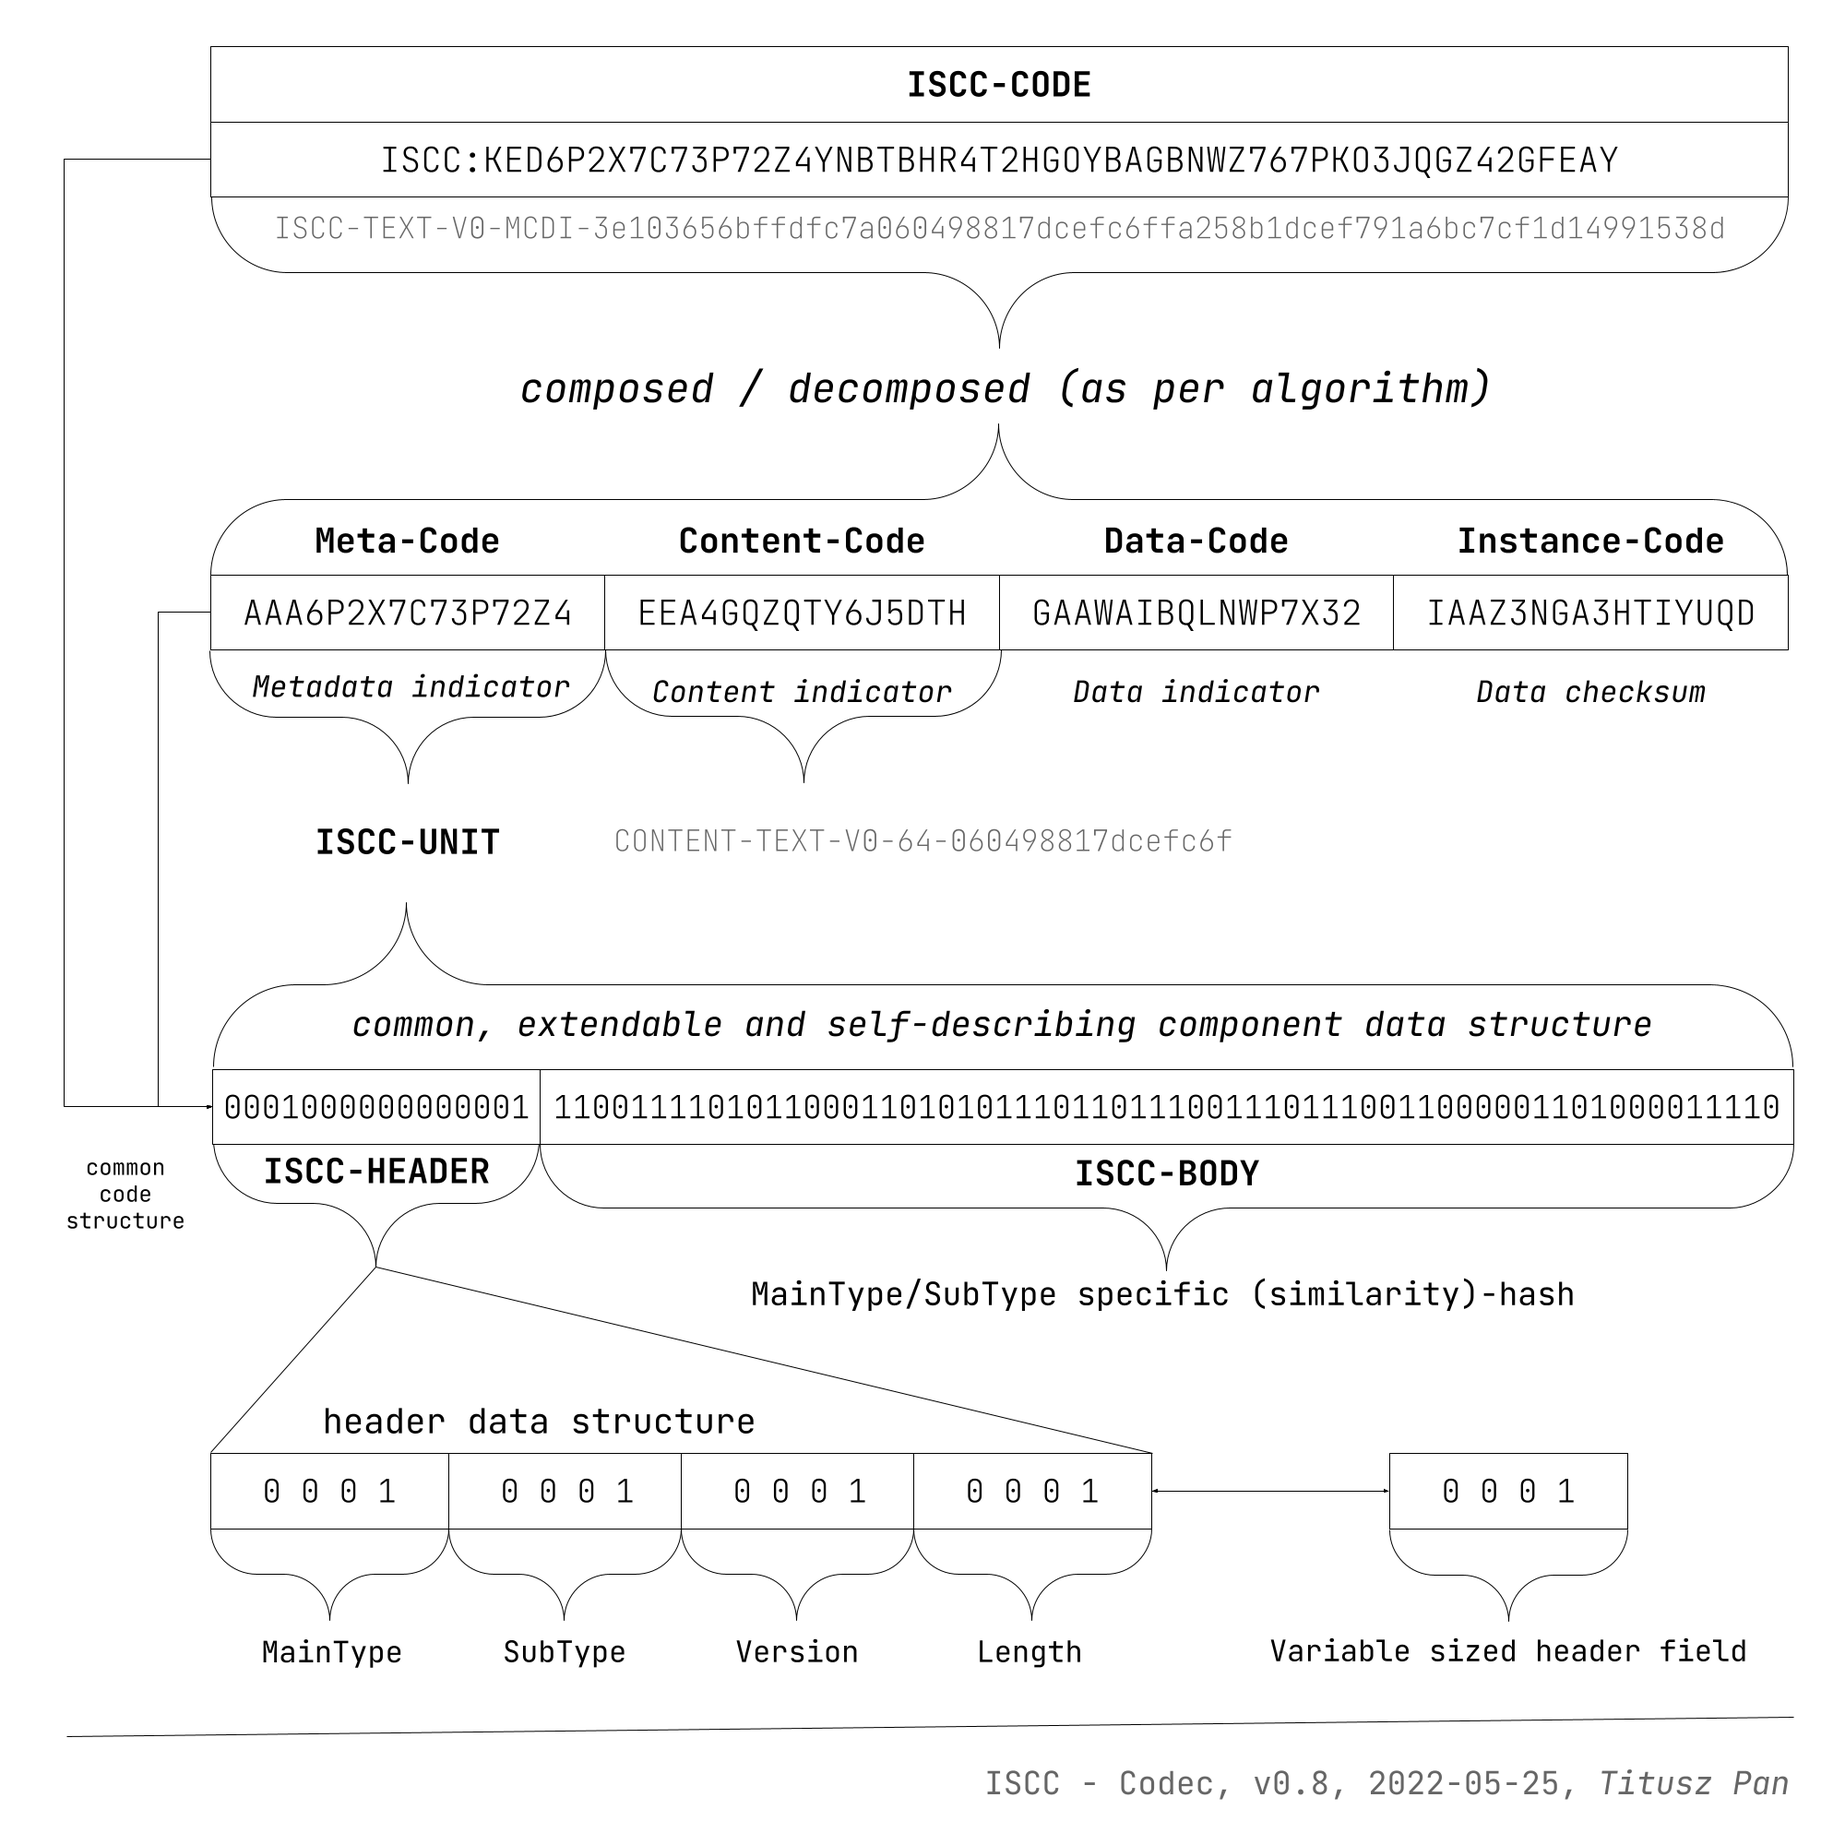
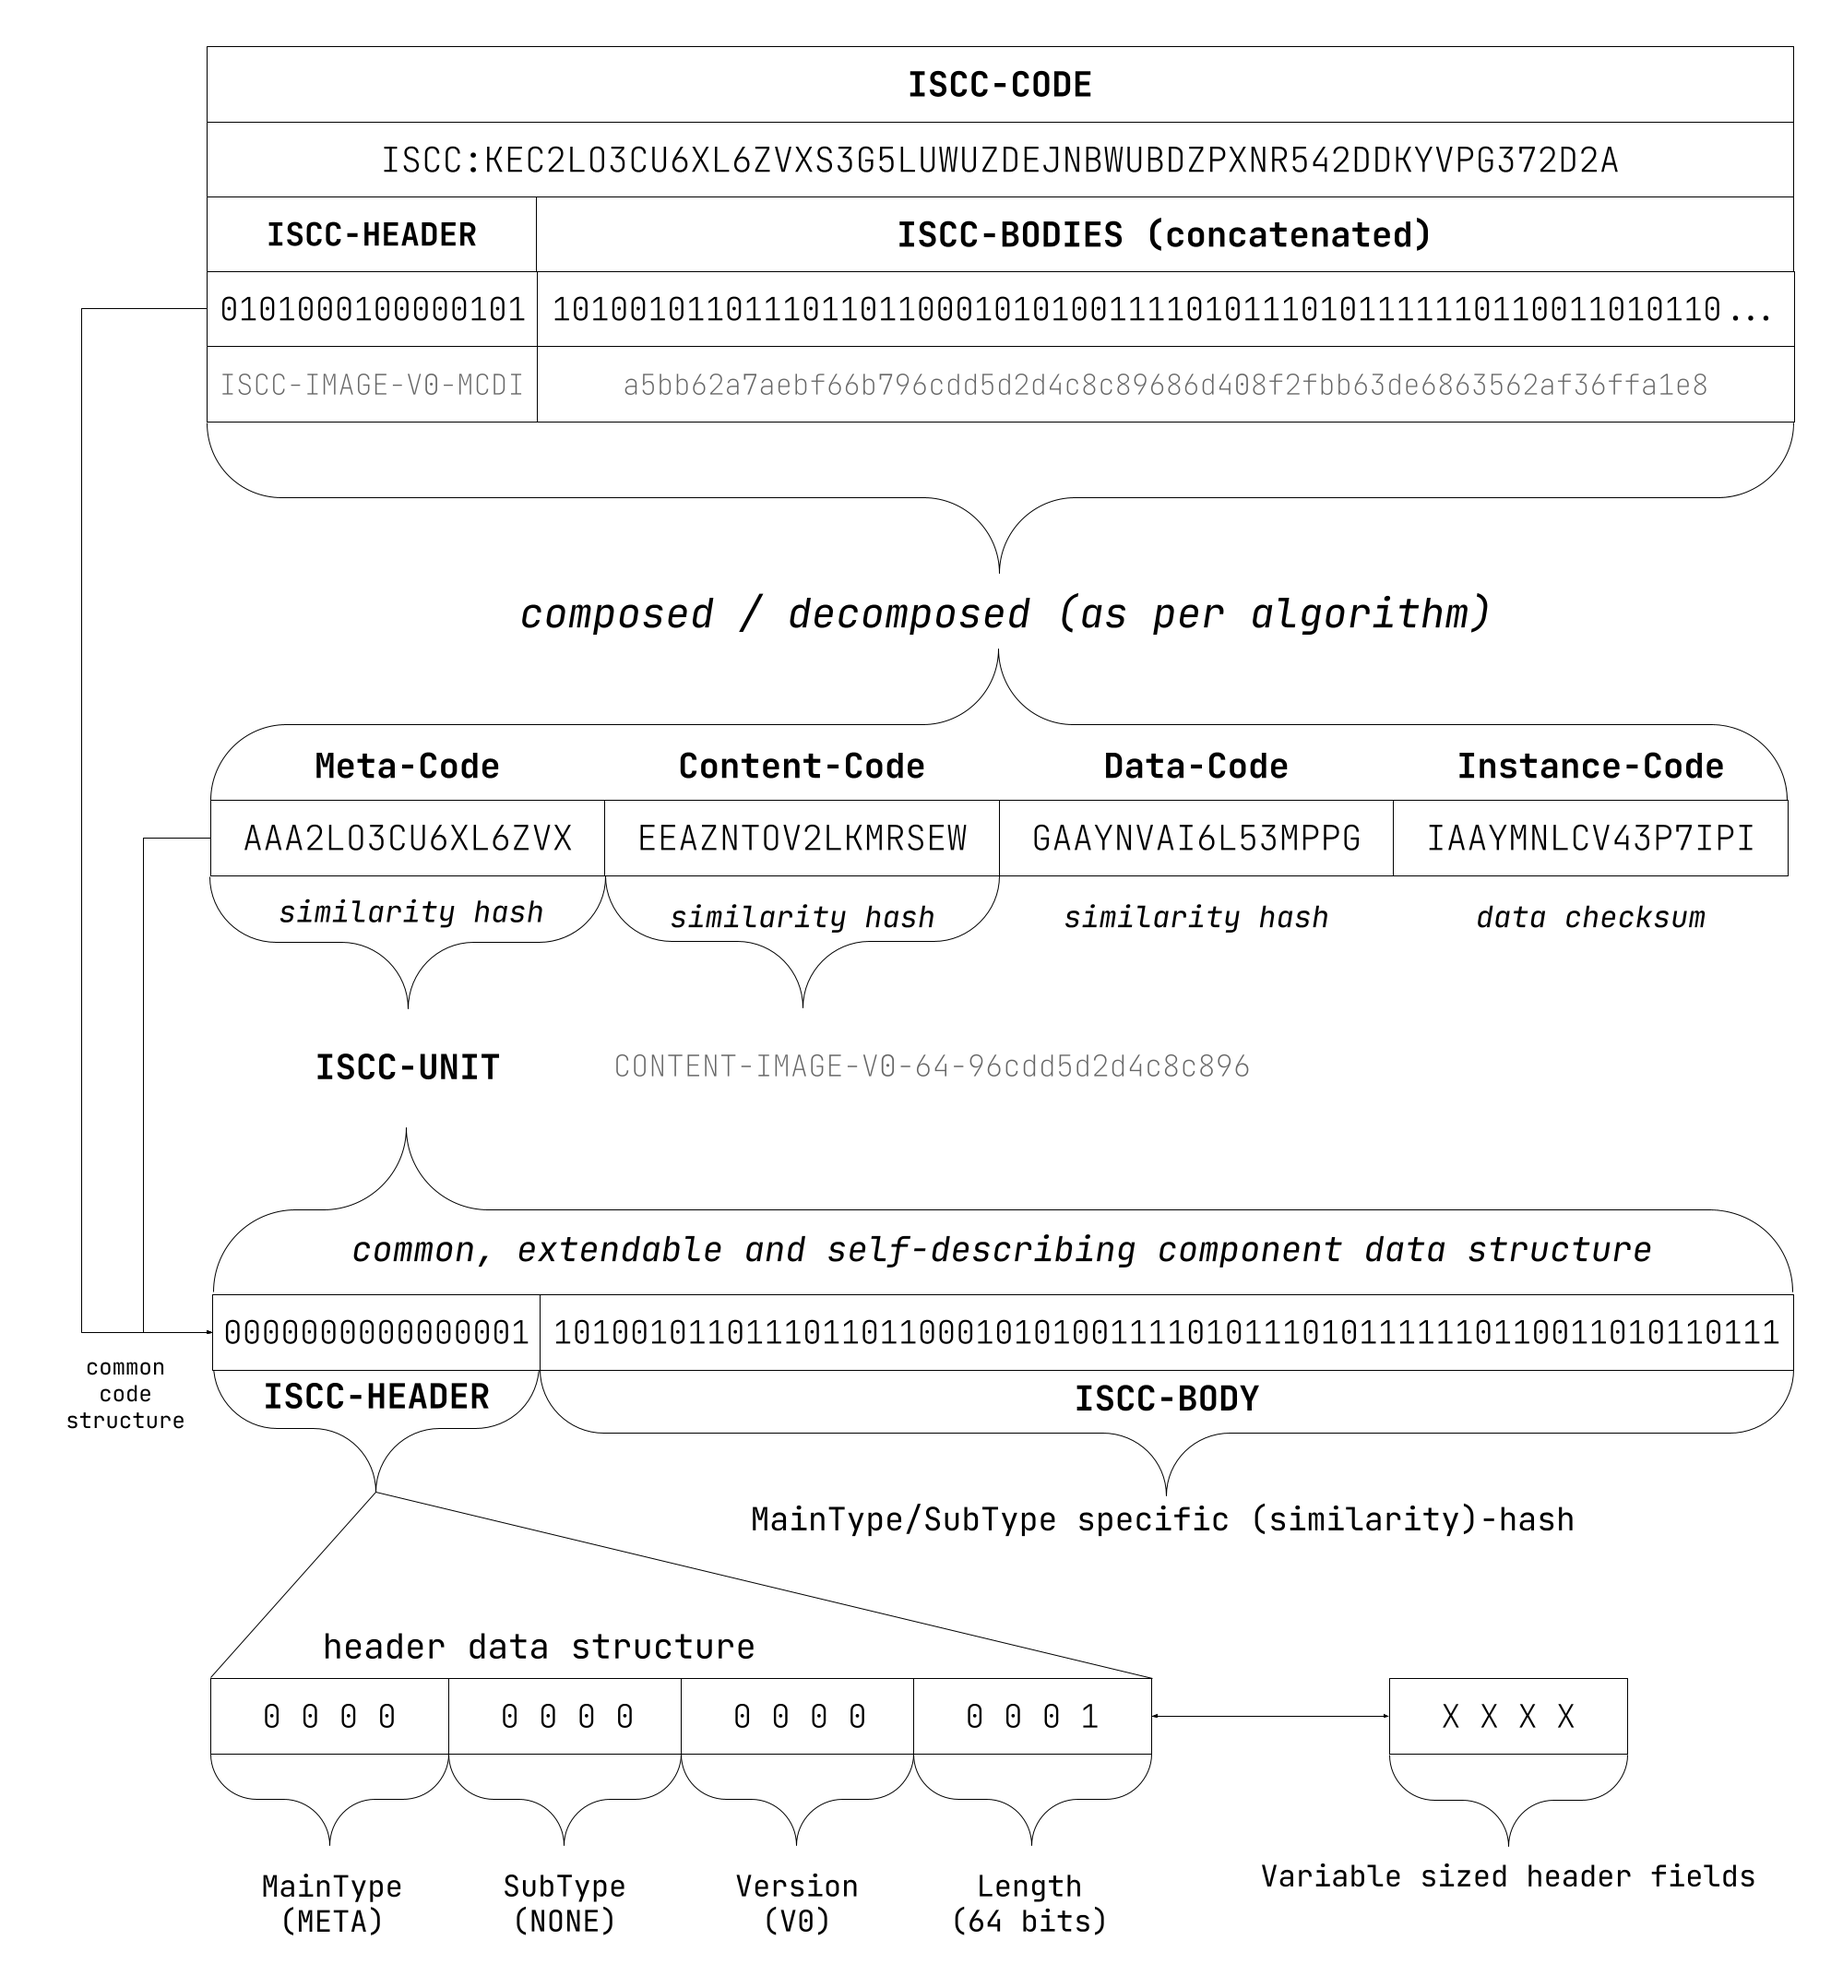
Update architecture figures

diff --git a/CHANGELOG.md b/CHANGELOG.md
@@ -4,7 +4,8 @@
 - Added documentation for options
 - Added python 3.11 support
 - Added Markdown formating
-- Optimize LF conversion
+- Updated architecture figures
+- Optimized LF conversion
 - Updated dependencies
 
 ## [0.2.12] - 2022-11-24

diff --git a/docs/changelog.md b/docs/changelog.md
@@ -4,7 +4,8 @@
 - Added documentation for options
 - Added python 3.11 support
 - Added Markdown formating
-- Optimize LF conversion
+- Updated architecture figures
+- Optimized LF conversion
 - Updated dependencies
 
 ## [0.2.12] - 2022-11-24
